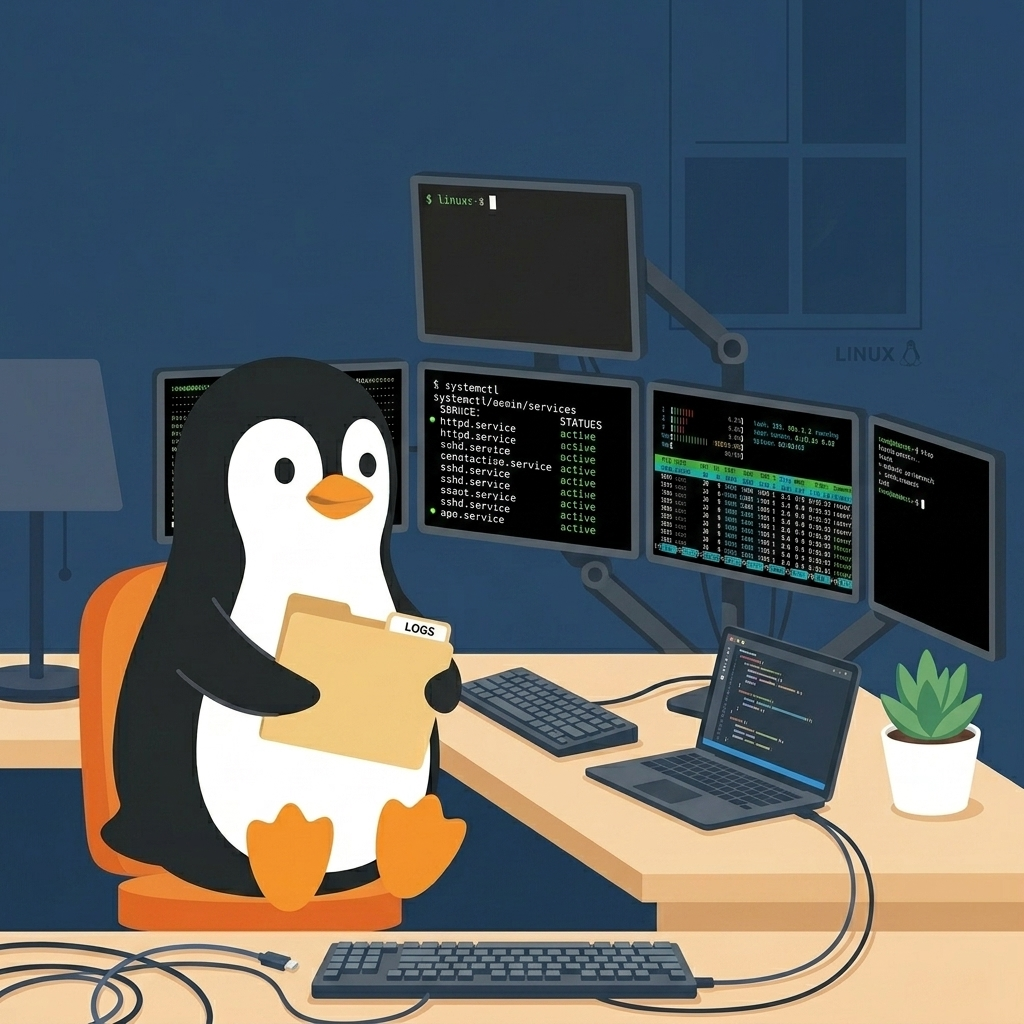
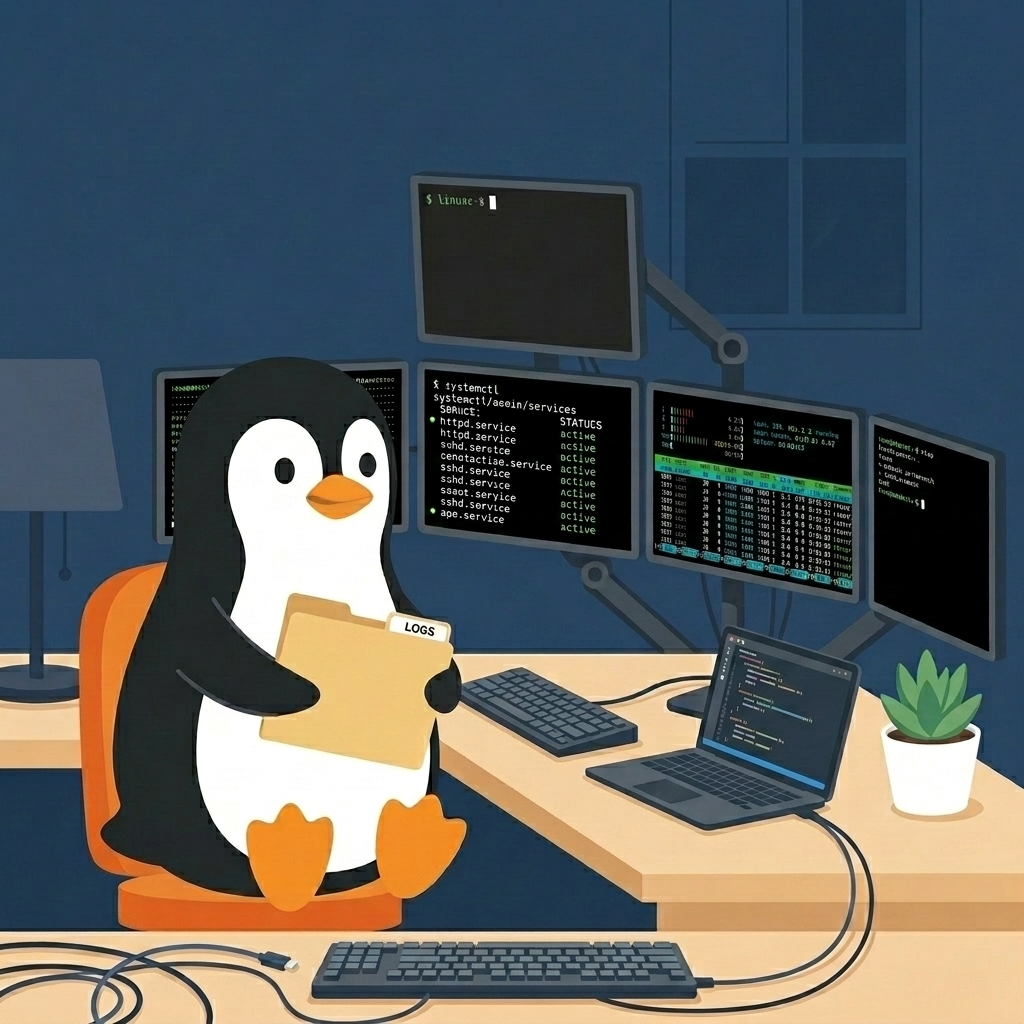
chore: limpieza de assets y pulido visual light mode
- Imágenes de labs actualizadas con branding propio
- Assets obsoletos eliminados (hero-integrated, hero-journey, tux-folders)
- Paleta light mode refinada (Slate system) para mejor contraste
- Sombras y font-smoothing mejorados
- Scripts auxiliares de utilidad agregados

diff --git a/scripts/watermark.js b/scripts/watermark.js
@@ -1,0 +1,86 @@
+import fs from 'fs';
+import path from 'path';
+import sharp from 'sharp';
+import { fileURLToPath } from 'url';
+
+const __filename = fileURLToPath(import.meta.url);
+const __dirname = path.dirname(__filename);
+
+const defaultImagesDir = path.join(__dirname, '../public/images');
+const args = process.argv.slice(2);
+
+const processFile = async (filePath) => {
+  try {
+    const ext = path.extname(filePath).toLowerCase();
+    if (ext !== '.png' && ext !== '.jpg' && ext !== '.jpeg') {
+      return;
+    }
+    
+    console.log(`Processing: ${filePath}`);
+    const image = sharp(filePath);
+    const metadata = await image.metadata();
+
+    // Box dimensions to cover the old watermark and place the new one
+    // Adjusted to bottom-right corner. 
+    const boxWidth = 260;
+    const boxHeight = 50;
+
+    // Use a dark slate/indigo background to blend with dark mode visuals
+    // and a minimalist text for the mark.
+    const svgOverlay = `
+      <svg width="${boxWidth}" height="${boxHeight}">
+        <rect x="0" y="0" width="${boxWidth}" height="${boxHeight}" fill="#0f172a" />
+        <rect x="0" y="0" width="${boxWidth}" height="2" fill="#1e293b" />
+        <rect x="0" y="0" width="2" height="${boxHeight}" fill="#1e293b" />
+        <text x="50%" y="50%" dominant-baseline="middle" text-anchor="middle" font-family="-apple-system, BlinkMacSystemFont, Segoe UI, Roboto, Helvetica, Arial, sans-serif" font-size="14" fill="#64748b" font-weight="500" letter-spacing="1">
+          ceroaproduccion
+        </text>
+      </svg>
+    `;
+
+    const buffer = Buffer.from(svgOverlay);
+
+    const tmpFile = filePath + '.tmp.png';
+    await image
+      .composite([
+        {
+          input: buffer,
+          gravity: 'southeast',
+        }
+      ])
+      .toFile(tmpFile);
+
+    // Replace original file
+    fs.renameSync(tmpFile, filePath);
+    console.log(`Successfully watermarked: ${filePath}`);
+  } catch (err) {
+    console.error(`Error processing ${filePath}:`, err);
+  }
+};
+
+const run = async () => {
+  if (args.length > 0) {
+    for (const file of args) {
+      const fullPath = path.resolve(process.cwd(), file);
+      if (fs.existsSync(fullPath)) {
+        await processFile(fullPath);
+      } else {
+        console.error(`File not found: ${fullPath}`);
+      }
+    }
+  } else {
+    // Default: process all lab-*.png files in public/images
+    if (fs.existsSync(defaultImagesDir)) {
+      const files = fs.readdirSync(defaultImagesDir);
+      for (const file of files) {
+         if (file.endsWith('.png') && file !== 'tux-minimal.png') {
+           await processFile(path.join(defaultImagesDir, file));
+         }
+      }
+    } else {
+      console.error(`Directory not found: ${defaultImagesDir}`);
+    }
+  }
+};
+
+run();

diff --git a/src/styles/global.css b/src/styles/global.css
@@ -34,27 +34,27 @@
    VARIABLES — Light mode
    ============================================ */
 :root.light {
-  --accent: #4F46E5; /* Indigo profundo */
-  --accent-dark: #3730A3; /* Indigo más oscuro para hover */
-  --accent-rgb: 79, 70, 229;
+  --accent: #4338CA; /* Indigo más definido, mejor contraste */
+  --accent-dark: #312E81;
+  --accent-rgb: 67, 56, 202;
 
-  --bg-primary: #ECEFF4; /* Nord Snow Storm - Sin reflejos amarillos ni destellos blancos */
-  --bg-secondary: #FFFFFF; /* Pure white para máxima distinción contra bg-primary */
-  --bg-code: #E5E9F0; /* Nord 5 para bloques de código */
+  --bg-primary: #F8FAFC; /* Slate 50: Blanco tiza apagado. No deslumbra, es muy suave y moderno */
+  --bg-secondary: #FFFFFF; /* Blanco puro para elevar las cajas (cards, inputs, footer) */
+  --bg-code: #F1F5F9; /* Fondo muy sutil para código inline */
 
-  --text-primary: #2E3440; /* Polar Night: Carbón oscuro muy relajante a la vista */
-  --text-secondary: #434C5E; 
-  --text-muted: #4C566A; 
+  --text-primary: #0F172A; /* Slate 900: Oscuro marcado y fuerte, elimina la sensación "opaca" */
+  --text-secondary: #334155; /* Slate 700: Secundario legible y profesional */
+  --text-muted: #64748B; /* Slate 500 para notas al pie */
 
-  --border-color: #D8DEE9; /* Nord 4 - bordes gélidos sutiles */
+  --border-color: #CBD5E1; /* Slate 300 para mayor contraste y definición de tarjetas */
 
-  --black: 46, 52, 64;
-  --gray: 67, 76, 94;
-  --gray-light: 236, 239, 244;
-  --gray-dark: 59, 66, 82;
+  --black: 15, 23, 42;
+  --gray: 51, 65, 85;
+  --gray-light: 241, 245, 249;
+  --gray-dark: 15, 23, 42;
   --gray-gradient: rgba(var(--gray-light), 0%), var(--bg-primary);
 
-  --box-shadow: 0 4px 6px -1px rgba(0, 0, 0, 0.04), 0 2px 4px -1px rgba(0, 0, 0, 0.02);
+  --box-shadow: 0 10px 25px -5px rgba(0, 0, 0, 0.05), 0 8px 10px -6px rgba(0, 0, 0, 0.01); /* Sombra difusa Apple/Tailwind-style */
 }
 
 /* ============================================
@@ -94,6 +94,8 @@ body {
   font-size: 20px;
   line-height: 1.7;
   transition: background-color 0.2s ease, color 0.2s ease;
+  -webkit-font-smoothing: antialiased;
+  -moz-osx-font-smoothing: grayscale;
 }
 
 main {
